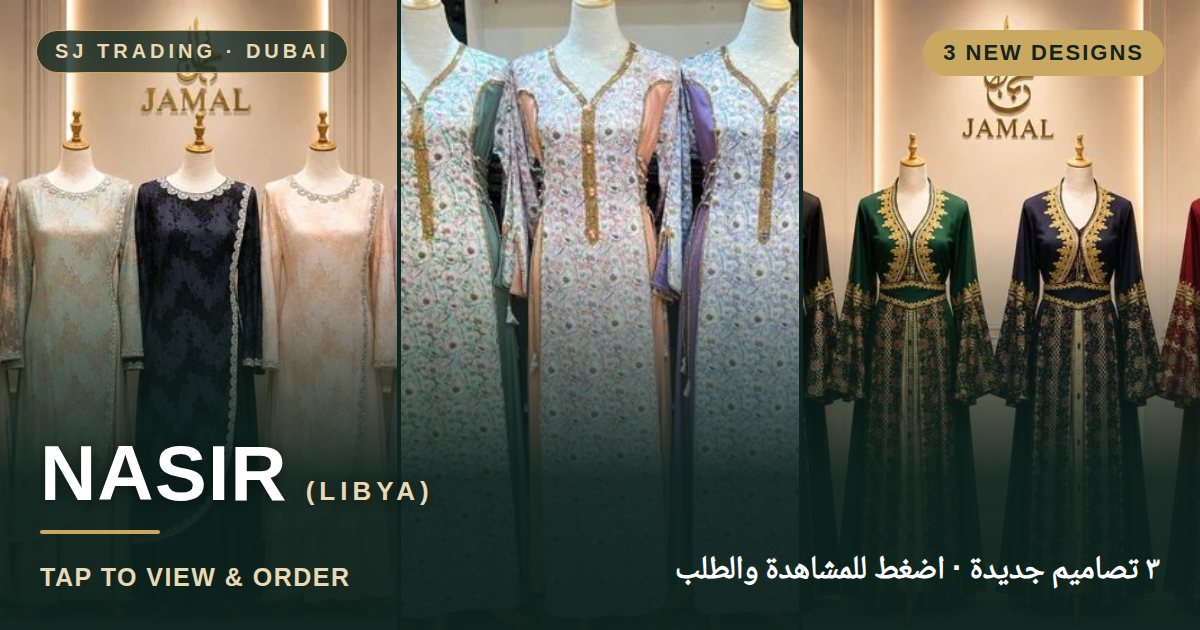
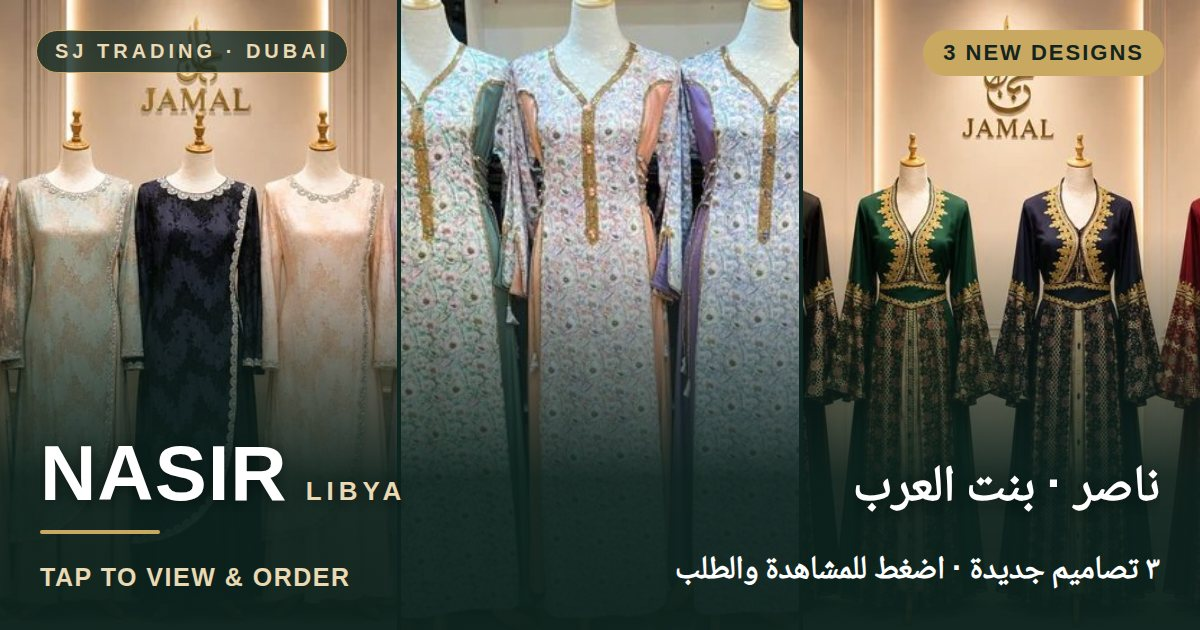
page2: q1a20e44ea3a7e7e.json

Changed region(s): [[0.7092, 0.7238, 0.8633, 0.8143], [0.2467, 0.754, 0.37, 0.8143], [0.8942, 0.754, 0.9867, 0.8143]]

diff --git a/my-nasir-v2zo.html b/my-nasir-v2zo.html
@@ -1,25 +1,25 @@
 <!doctype html>
 <html lang="ar"><head><meta charset="utf-8"><meta name="viewport" content="width=device-width, initial-scale=1">
-<title>NASIR · (LIBYA) — SJ Trading</title>
+<title>NASIR · LIBYA · ناصر · بنت العرب — SJ Trading</title>
 <meta property="og:type" content="website">
 <meta property="og:site_name" content="SJ Trading">
-<meta property="og:title" content="NASIR · (LIBYA) — SJ Trading">
+<meta property="og:title" content="NASIR · LIBYA · ناصر · بنت العرب — SJ Trading">
 <meta property="og:description" content="3 new designs · Tap to view your catalogue and order. ٣ تصاميم جديدة · اضغط لمشاهدة الكتالوج والطلب">
 <meta property="og:url" content="https://abbas911-prog.github.io/sj-designs/my-nasir-v2zo.html">
-<meta property="og:image" content="https://abbas911-prog.github.io/sj-designs/og-my-nasir-v2zo.jpg?v=q1a20574d97aa7a6">
-<meta property="og:image:secure_url" content="https://abbas911-prog.github.io/sj-designs/og-my-nasir-v2zo.jpg?v=q1a20574d97aa7a6">
+<meta property="og:image" content="https://abbas911-prog.github.io/sj-designs/og-my-nasir-v2zo.jpg?v=q1a20e44ea3a7e7e">
+<meta property="og:image:secure_url" content="https://abbas911-prog.github.io/sj-designs/og-my-nasir-v2zo.jpg?v=q1a20e44ea3a7e7e">
 <meta property="og:image:type" content="image/jpeg">
 <meta property="og:image:width" content="1200">
 <meta property="og:image:height" content="630">
-<meta property="og:image:alt" content="NASIR · (LIBYA) — SJ Trading">
+<meta property="og:image:alt" content="NASIR · LIBYA · ناصر · بنت العرب — SJ Trading">
 <meta name="twitter:card" content="summary_large_image">
-<meta name="twitter:image" content="https://abbas911-prog.github.io/sj-designs/og-my-nasir-v2zo.jpg?v=q1a20574d97aa7a6">
+<meta name="twitter:image" content="https://abbas911-prog.github.io/sj-designs/og-my-nasir-v2zo.jpg?v=q1a20e44ea3a7e7e">
 <meta name="description" content="3 new designs · Tap to view your catalogue and order. ٣ تصاميم جديدة · اضغط لمشاهدة الكتالوج والطلب">
 <meta name="robots" content="noindex">
-<style>body{margin:0;font-family:system-ui,-apple-system,"Segoe UI",sans-serif;background:#f5f7f3;color:#15211b}#w{padding:70px 20px;text-align:center}#w p{color:#5d6a62}</style>
-</head><body><div id="w"><h2>NASIR · (LIBYA)</h2><p id="m">Loading · جاري التحميل</p></div>
+<style>body{margin:0;font-family:system-ui,-apple-system,"Segoe UI",sans-serif;background:#F5EFEC;color:#241616}#w{min-height:100vh;box-sizing:border-box;padding:22vh 22px 40px;text-align:center}#w small{display:block;font-size:11px;font-weight:700;letter-spacing:.28em;color:#B08D3C;margin-bottom:16px}#w h2{font-family:Georgia,"Times New Roman",serif;font-weight:500;font-size:34px;margin:0;letter-spacing:.02em}#w h3{font-family:"Geeza Pro","Noto Naskh Arabic","Segoe UI",serif;font-weight:600;font-size:28px;margin:10px 0 0;color:#6B1F2C}#w i{display:block;width:56px;height:2px;background:#B08D3C;margin:18px auto}#w p{color:#7A6663;font-size:14px;margin:0;animation:sjp 1.2s ease-in-out infinite alternate}@keyframes sjp{from{opacity:.35}to{opacity:1}}</style>
+</head><body><div id="w"><small>SJ TRADING · DUBAI</small><h2>NASIR · LIBYA</h2><h3 dir="rtl" lang="ar">ناصر · بنت العرب</h3><i></i><p id="m"><span dir="rtl" lang="ar">جاري تحميل الكتالوج</span> · Loading your catalogue</p></div>
 <script>
-// The customer's own page of the new catalogue (job q1a20574d97aa7a6). This file only fetches the page from the relay and shows it; it holds no data.
+// The customer's own page of the new catalogue (job q1a20e44ea3a7e7e). This file only fetches the page from the relay and shows it; it holds no data.
 (function () {
   var R = "https://script.google.com/macros/s/AKfycbylqzZf0KPyK_u2W52l3Jb8u9uhd4o4mYp7vOeJlmBGJeQfejwYAazjQa6ymmlIsXpVoA/exec", c = "v2ZORu3Djump", m = document.getElementById('m');
   function bad() { m.innerHTML = 'This link is not ready. Please message us on WhatsApp.<br><span dir="rtl" lang="ar">الرابط غير جاهز · يرجى التواصل معنا عبر واتساب</span>'; }
